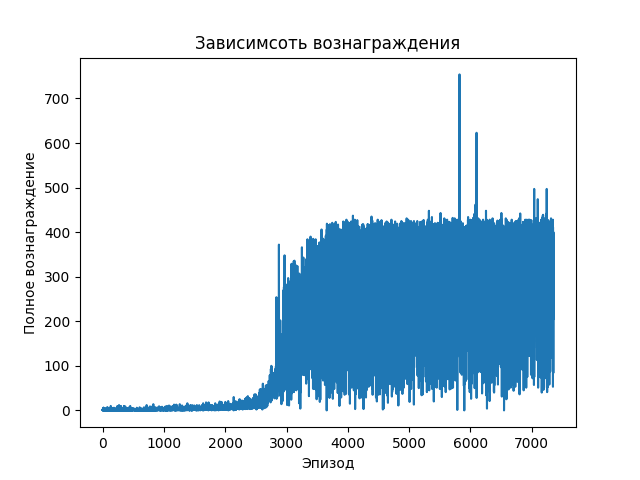
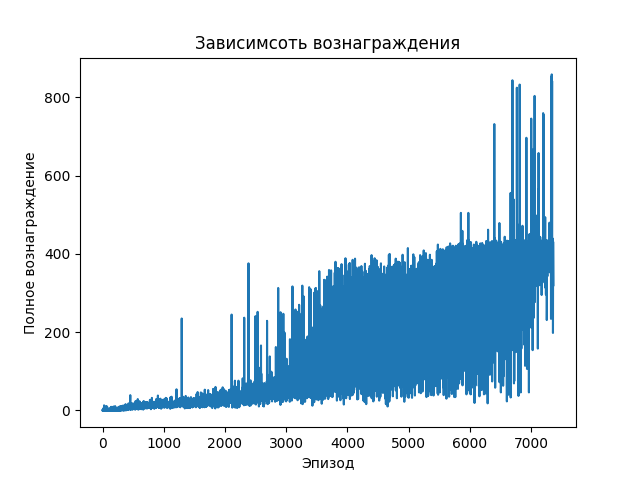
final md

diff --git a/README.md b/README.md
@@ -84,6 +84,8 @@ $I_a = [\overline{x} - \frac{S}{\sqrt{n - 1}} * t_{n - 1}, \overline{x} + \frac{
 
 # Deep Q Network (DQN)
 
+На текущем этапе были выбраны для тестирования 3 алгоритма Reinforce, Actor-Critic и DQN. По результатам облучения, выбор пал на алгоритм DQN, т.к. другие алгоритмы не фиксировали текущий уровень резултатов, из-за чего постоянно результаты падали до 0. В свою очередь DQN имеет вторую опорную модель поддреживающую уровень.
+
 ## Результат эксперимента для первой модели (754)
 
 ### Точечные оценки для J
@@ -117,6 +119,8 @@ $I_a = [\overline{x} - \frac{S}{\sqrt{n - 1}} * t_{n - 1}, \overline{x} + \frac{
 </p>
 
 # Proximal Policy Optimization (PPO)
+
+Данный алгоритм обучения был выбран
 
 Использовалась модель PPO, в которой к основной loss функции прибалвялись ошибки кросс-энтропии и MSE.
 
@@ -155,3 +159,22 @@ $I_a = [\overline{x} - \frac{S}{\sqrt{n - 1}} * t_{n - 1}, \overline{x} + \frac{
 </p>
 
 # Результаты экспериментов
+
+
+
+<div align="center">
+    <h3>График обучения DQN</h3>
+    <img src="content/dqn/dqn.png">
+    <h3>График обучения PPO</h3>
+    <img src="content/ppo/ppo.png">
+</div>
+
+Сравнивая интервальные оценки и графики обучения разных моделей, можно прийти к следующим выводам:
+- DQN оказался требовательней по ресурсам и времени для обучения, т.к. работают сразу 2 модели и требует достаточный объем ОЗУ для сохранения шагов в буфер (из-за этих ограничений не удалось обучаться с параллельными играми) - **обучение заняло 13 часов**;
+- PPO в сравнении с DQN не требовал так много ресурсов и времени для обучения (существенно на это повлияло возможность обучать с парараллельными играми) - **обучение заняло 4 часа**;
+- по графикам можно предположить, что DQN достиг своего максимума при заданных параметрах обучения, а PPO имеет потенциал для дальнейшего улучшения качества.
+
+# Литература
+1. Обучение с подкреплением на PyTorch: сборник рецептов - Юси (Хайден) Лю
+2. <a href="https://gymnasium.farama.org/main">Документация Gymnasium</a>
+3. <a href="https://github.com/vwxyzjn/cleanrl">Источник вдохновения</a>
